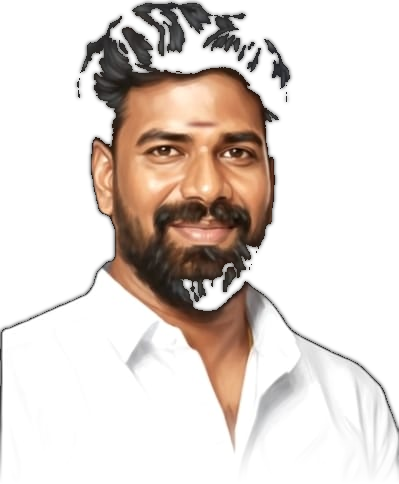
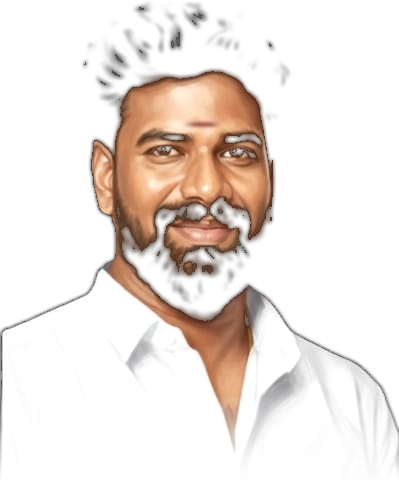
Leader image: screen-blend on pure black wrap for perfect bg removal

diff --git a/public/index.html b/public/index.html
@@ -603,6 +603,16 @@
     .wave-red { background: var(--red); }
     .wave-svg  { display: block; width: 100%; overflow: hidden; line-height: 0; }
 
+    /* ── LEADER SCREEN WRAP — pure black bg so screen-blend works ── */
+    .leader-screen-wrap {
+      background: #000000;
+      border-radius: 16px;
+      display: inline-block;
+      overflow: hidden;
+      line-height: 0;
+      box-shadow: 0 0 32px rgba(255,215,0,0.35), 0 0 60px rgba(204,0,0,0.25);
+    }
+
     /* ── MINISTERS ROW (side-by-side) ── */
     .ministers-row {
       display: flex;
@@ -718,15 +728,19 @@
       flex: none;
     }
 
-    /* Digital painting on black bg — screen blend makes black invisible */
+    /* Digital painting — screen blend on pure-black wrap makes bg invisible */
     .minister-photo-screen {
       mix-blend-mode: screen;
-      border-radius: 12px;
-      filter:
-        drop-shadow(0 0 28px rgba(255,215,0,0.45))
-        drop-shadow(0 6px 32px rgba(204,0,0,0.35))
-        brightness(1.05);
+      width: 100%;
+      height: 240px;
+      object-fit: cover;
+      object-position: top center;
+      display: block;
+      border-radius: 0;
+      filter: brightness(1.05) contrast(1.05);
     }
+    @media(max-width:600px) { .minister-photo-screen { height: 170px; } }
+    @media(max-width:400px) { .minister-photo-screen { height: 140px; } }
 
     @media(max-width:600px) {
       .ministers-row { gap: 14px; }
@@ -920,7 +934,9 @@
       <div class="ministers-row ministers-row-single">
 
         <div class="minister-block">
-          <img src="assets/leader-new.jpg" alt="தளபதி T.ராஜேஷ்" class="minister-photo minister-photo-screen">
+          <div class="leader-screen-wrap">
+            <img src="assets/leader-new.jpg" alt="தளபதி T.ராஜேஷ்" class="minister-photo minister-photo-screen" style="mix-blend-mode:screen;display:block;margin:0;">
+          </div>
           <div class="minister-name">தளபதி T.ராஜேஷ்</div>
           <div class="minister-desig">மாவட்ட பொறுப்பாளர்</div>
         </div>
